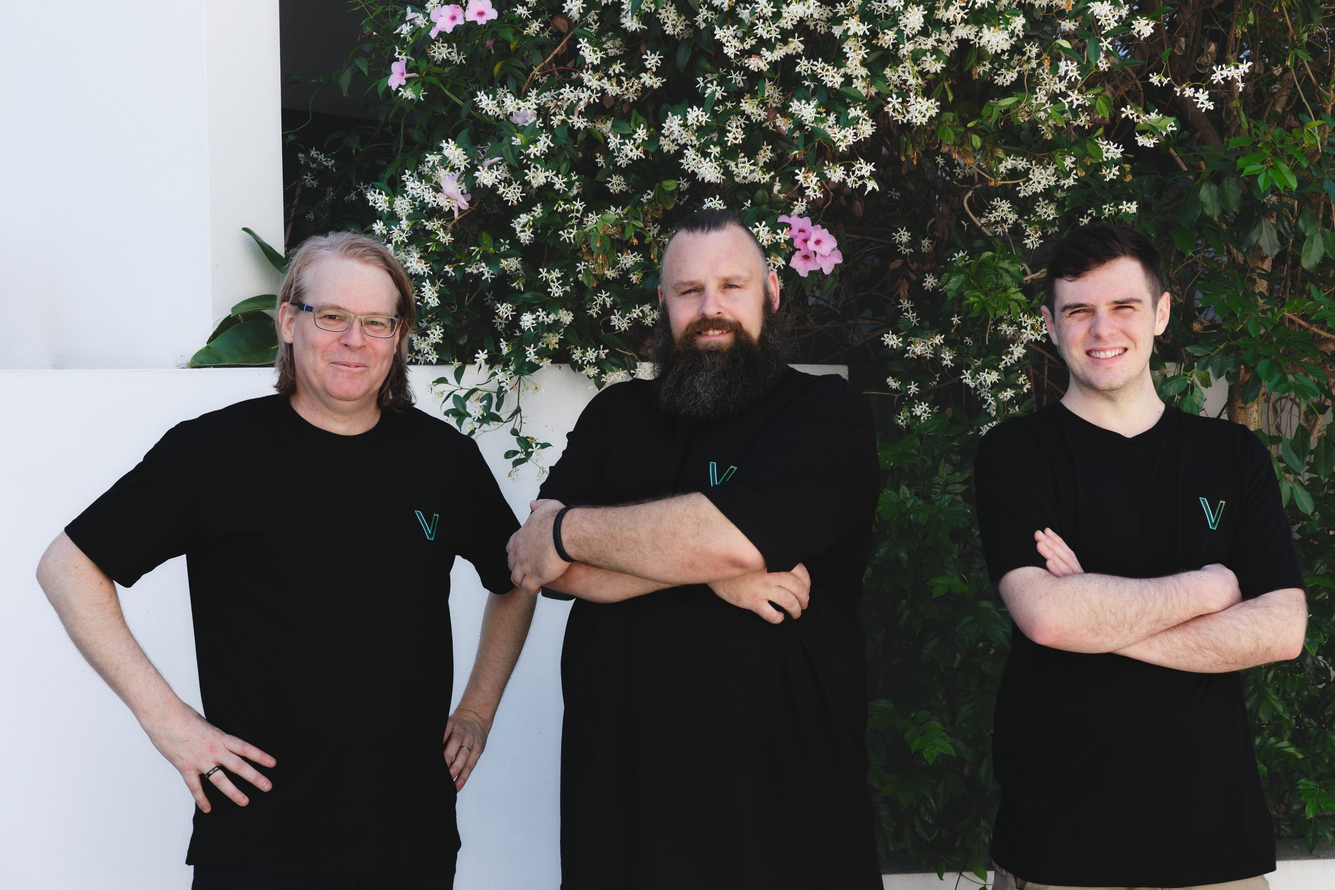
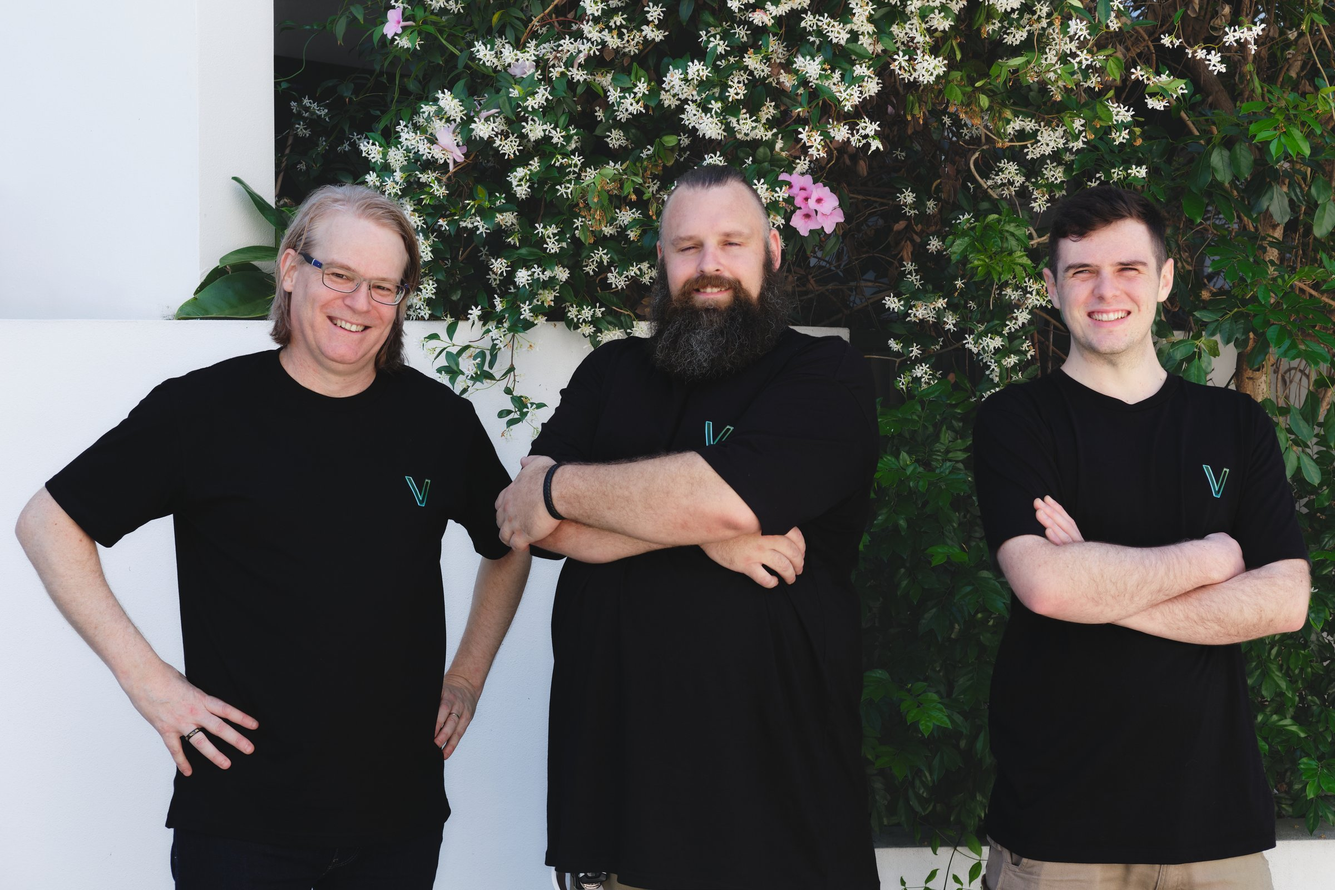
review-2 2: the other group shot, in the same media document
Also fixes the seed creating a duplicate media row after replacing a file:
Payload renames the new file name-1.jpg, so name-N now counts as the same
asset.

diff --git a/src/seed/run.ts b/src/seed/run.ts
@@ -46,14 +46,31 @@ async function bySlug(payload: Payload, collection: CollectionSlug, slug: string
   return (docs[0] as unknown as Row | undefined) ?? null
 }
 
+/*
+ * The media row for an asset file: its exact name, or Payload's rename of it.
+ *
+ * ⚠ REPLACING A FILE RENAMES IT. When the seed swaps a changed file into an
+ * existing row, Payload finds the old file still on disk and saves the new
+ * one as `name-1.jpg`. Looking up by the exact name alone then misses the
+ * row on the next run and CREATES A SECOND ONE (review-2 §2 did exactly
+ * that). So `name-N.ext` counts as the same asset, and the oldest row wins.
+ */
 async function byFilename(payload: Payload, file: string) {
+  const base = path.basename(file)
+  const ext = path.extname(base)
+  const stem = base.slice(0, -ext.length)
   const { docs } = await payload.find({
     collection: MEDIA,
-    where: { filename: { equals: path.basename(file) } },
-    limit: 1,
+    where: { filename: { like: stem } },
+    sort: 'id',
+    limit: 50,
     depth: 0,
   })
-  return (docs[0] as unknown as Row | undefined) ?? null
+  const same = new RegExp(
+    `^${stem.replace(/[.*+?^${}()|[\]\\]/g, '\\$&')}(-\\d+)?${ext.replace('.', '\\.')}$`
+  )
+  const rows = docs as unknown as Array<Row & { filename: string }>
+  return rows.find((row) => row.filename === base || same.test(row.filename)) ?? null
 }
 
 async function versionCount(payload: Payload, collection: CollectionSlug, id: number) {

diff --git a/docs/briefs/review-2.log.md b/docs/briefs/review-2.log.md
@@ -55,3 +55,19 @@ Settled fold: the buttons and links are in the first screen at every wide size
 (links bottom: 627/768, 662/900, 727/1050, 741/1080). The frame is about
 576×384. At 390×844 the frame, the links, then the copy. Screenshots:
 `C:\tmp\review-2\fold\fold-<w>x<h>-<theme>.png`.
+
+## §2 The other group shot
+
+The new `team-group.jpg` replaces the file of the **same media document**
+(id 29), which is `/team`'s group photo and the home "Why" photo. Same alt.
+
+**A seed bug this found, and its fix.** When the seed swaps a changed file
+into an existing row, Payload finds the old file still on disk and saves the
+new one as `team-group-1.jpg`. The next seed run looked up the exact name
+`team-group.jpg`, didn't find it, and **created a second document** (id 35),
+pointing the site at it. Fixed in `src/seed/run.ts`: `byFilename` now treats
+`name-N.ext` as the same asset and takes the oldest matching row. I then
+deleted the duplicate (id 35, checked by filename before deleting) through
+the admin API. Result: one document, the original id 29, holding the new
+file (536,740 bytes), used by both slots. **Two further seed runs: 0
+changes.**
